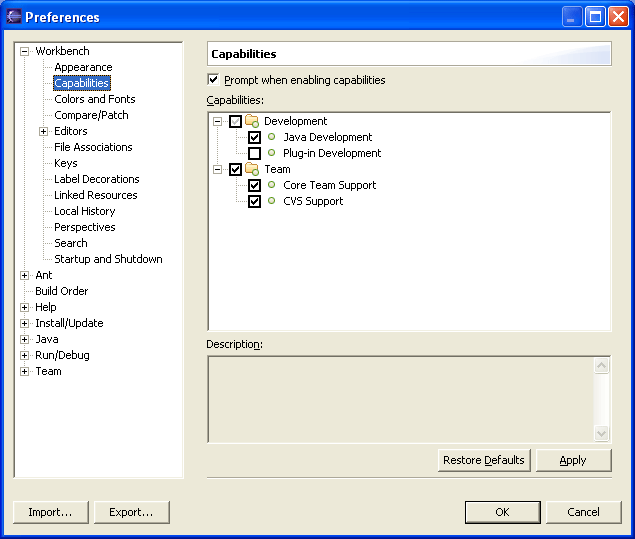
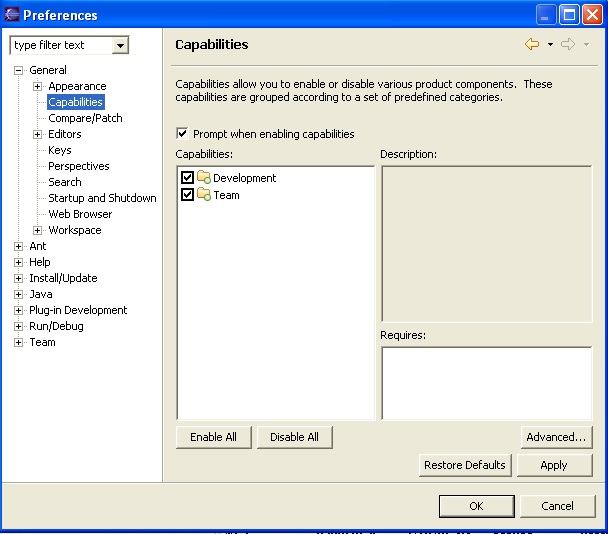
Updates to Capabilities Preferences Doc and images, combination of input from Bugzilla Bug 96787 and existing doc.

diff --git a/bundles/org.eclipse.platform.doc.user/reference/ref-activitiespref.htm b/bundles/org.eclipse.platform.doc.user/reference/ref-activitiespref.htm
@@ -9,7 +9,9 @@
 <BODY BGCOLOR="#ffffff">
 <h2>Capabilities</h2>
 <P CLASS="Para">The Capabilities preference page allows you to enable or disable 
-  various product components such as Java development and plug-in development.</P>
+  various product components such as Java development and plug-in development. By 
+  default, the page only shows general categories of behaviour.  If you would like
+  configure fine-grained capabilities you should use the "Advanced" dialog.</P>
 <P CLASS="Para"><strong>Note:</strong> Some capability selections have dependencies 
   on other capabilities, disabling a required capability while leaving dependant 
   capabilities enabled will only result in them becoming re-enabled. This is the 
@@ -17,12 +19,21 @@
 <P CLASS="Para">Here is what the Capabilities preference page looks like: </P>
 
 <p><img src="../images/cap-pref.png" alt="Image of Capabilities Preference page" border="0" ></p>
+
+<P CLASS="Para">The advanced dialog appears as follows:</P>
+<p><img src="../images/cap-pref-advanced.png" alt="Image of advanced Capabilities Preference page dialog"></p>
+
 <p>When attempting to enable an action after its capability has been disabled 
   or has yet to be enabled in the preferences page, the following <strong>Confirm 
   Enablement </strong>prompt will appear verifying that you do indeed want to 
   enable the required capability. Click <strong>Details</strong> to display a 
   description of the capability.</p>
+  
 <p><img src="../images/cap-conf.png" alt="Image of Confirm Enablement prompt" border="0" ></p>
+
+<P CLASS="Para"><strong>Note:</strong> This dialog only appears if the 
+  "Prompt when enabling capabilities" preference has not been disabled.</P>
+  
 <p>
    <a href="../notices.html"><img src="../cpy.png" border="0" alt="Legal notices" ></a>
 </p>
